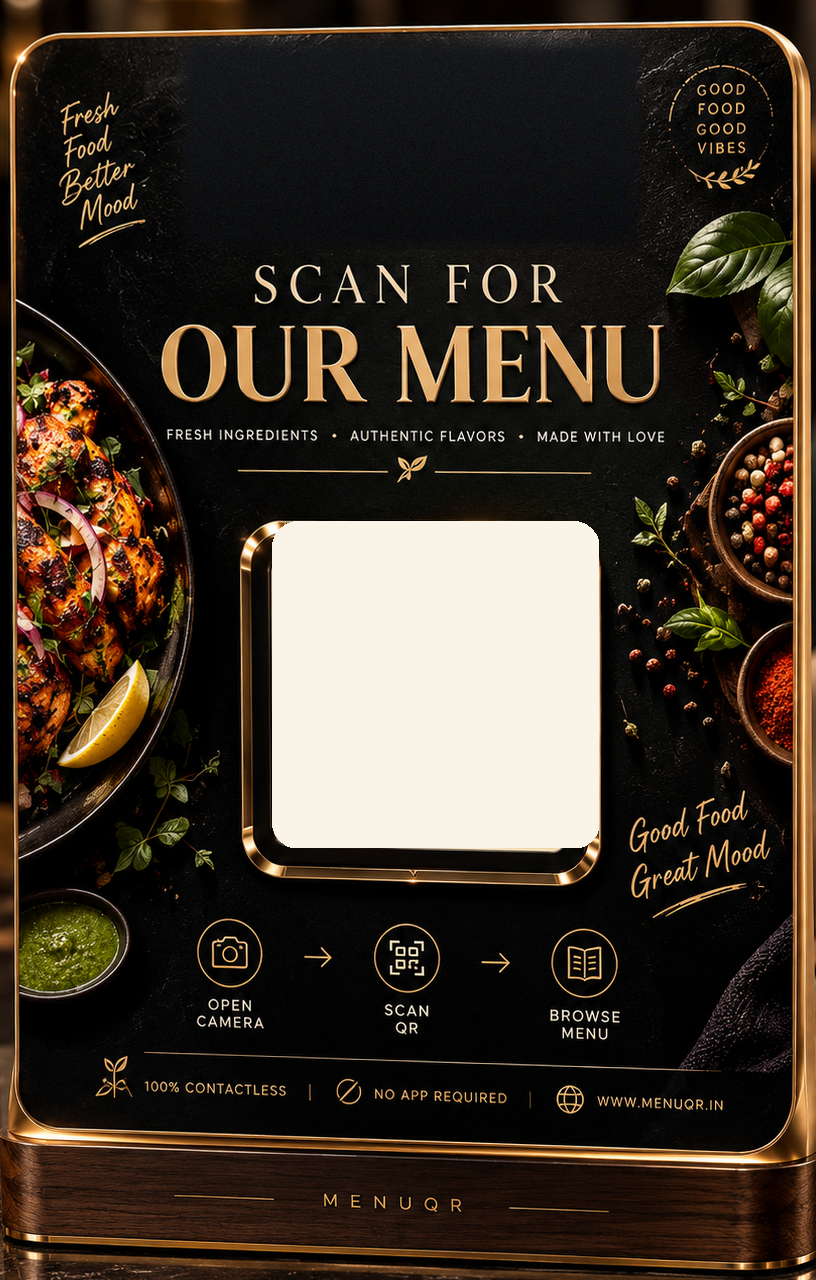
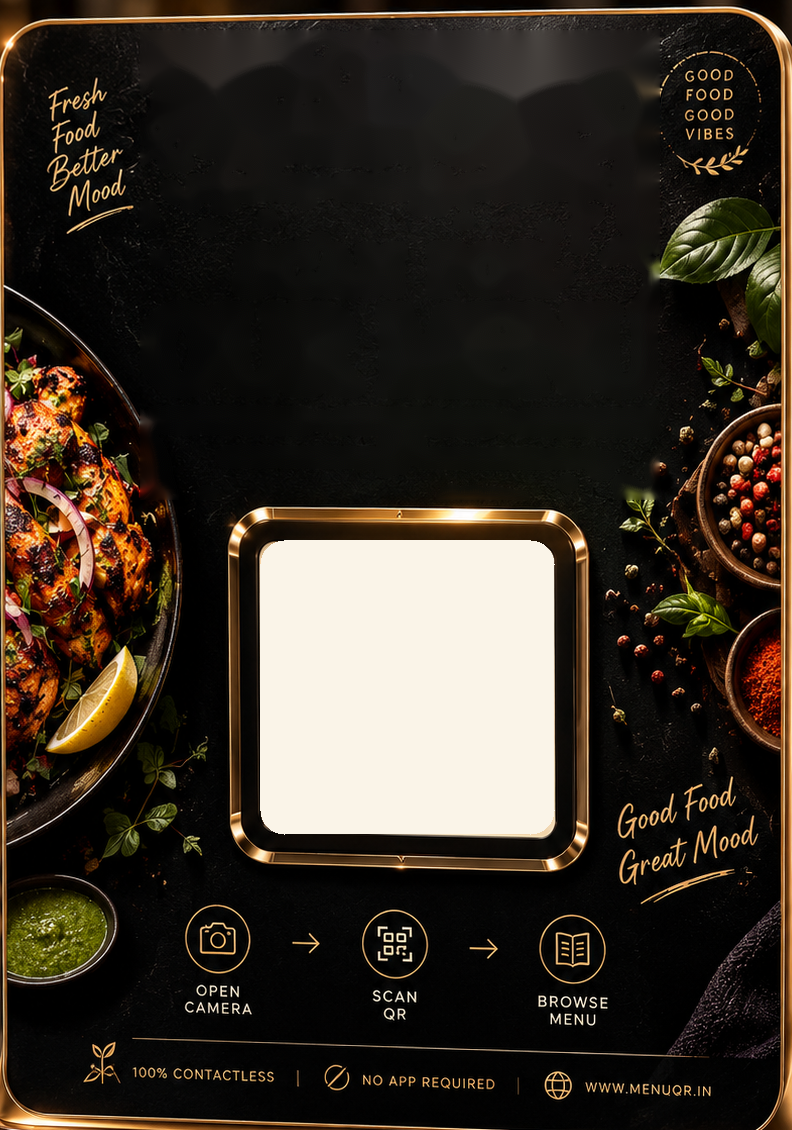
feat(sticker): optimize print-ready table sticker plaque and 3D gold rim alignment

diff --git a/frontend/src/components/sticker/RoyalWalnutStickerCard.tsx b/frontend/src/components/sticker/RoyalWalnutStickerCard.tsx
@@ -185,11 +185,11 @@ function FlagshipCulinaryStandeeCard({
   const [standeeImg, setStandeeImg] = React.useState('/assets/standee/flagship_culinary_standee_master.webp');
 
   return (
-    <div className="relative w-full aspect-[816/1280] overflow-hidden rounded-[2.2rem] select-none font-sans">
-      {/* Photorealistic 3D Table Standee Base Layer (100% Straight, De-skewed Orthographic) */}
+    <div className="relative w-full aspect-[792/1130] overflow-hidden rounded-[2rem] select-none font-sans">
+      {/* Photorealistic 3D Print-Ready Table Sticker Plate (100% Orthographic, 4-Sided 3D Gold Rim) */}
       <img
         src={standeeImg}
-        alt="MenusQR Physical Table Standee"
+        alt="MenusQR Print-Ready Table Sticker Plaque"
         onError={() => setStandeeImg('/assets/standee/flagship_culinary_standee_master.png')}
         className="absolute inset-0 w-full h-full object-cover pointer-events-none"
       />
@@ -198,13 +198,13 @@ function FlagshipCulinaryStandeeCard({
       <div
         className="absolute z-10 flex flex-col items-center text-center"
         style={{
-          top: '3.6%',
-          left: '16%',
-          right: '16%',
+          top: '4.2%',
+          left: '18%',
+          right: '18%',
         }}
       >
         {/* Official MenusQR Brand Badge */}
-        <div className="inline-flex items-center gap-1.5 px-3 py-0.5 rounded-full bg-black/75 backdrop-blur-md border border-[#D4AF37]/60 shadow-lg">
+        <div className="inline-flex items-center gap-1.5 px-3 py-0.5 rounded-full bg-black/80 backdrop-blur-md border border-[#D4AF37]/70 shadow-lg">
           <div className="w-3.5 h-3.5 flex items-center justify-center shrink-0">
             <MenusQRMark color="#FFFFFF" orange="#EA580C" />
           </div>
@@ -221,12 +221,12 @@ function FlagshipCulinaryStandeeCard({
         <h2
           className={`font-black tracking-tight leading-tight w-full px-1 text-center uppercase mt-1.5 ${
             restaurantName.length > 28
-              ? 'text-sm sm:text-base'
+              ? 'text-xs sm:text-sm'
               : restaurantName.length > 20
-              ? 'text-base sm:text-lg'
+              ? 'text-sm sm:text-base'
               : restaurantName.length > 12
-              ? 'text-lg sm:text-xl'
-              : 'text-xl sm:text-2xl'
+              ? 'text-base sm:text-lg'
+              : 'text-lg sm:text-xl'
           }`}
           style={{
             fontFamily: "'Playfair Display', 'Cinzel', Georgia, serif",
@@ -240,30 +240,39 @@ function FlagshipCulinaryStandeeCard({
         </h2>
 
         {/* Dynamic Cuisine Category with Gold Accents */}
-        <div className="flex items-center justify-center gap-1.5 mt-1 max-w-[310px]">
+        <div className="flex items-center justify-center gap-1.5 mt-1 max-w-[290px]">
           <span className="h-[1px] w-4 bg-gradient-to-r from-transparent to-[#D4AF37]" />
-          <p className="text-[8px] sm:text-[8.5px] font-extrabold uppercase tracking-[0.2em] text-[#E8C15A] text-center drop-shadow">
-            {category || 'AUTHENTIC FLAVORS • TABLE SERVICE'}
+          <p className="text-[7.5px] sm:text-[8px] font-extrabold uppercase tracking-[0.2em] text-[#E8C15A] text-center drop-shadow truncate">
+            {category || 'AUTHENTIC CHARCOAL & CLAY TANDOOR CRAFT'}
           </p>
           <span className="h-[1px] w-4 bg-gradient-to-l from-transparent to-[#D4AF37]" />
         </div>
 
         {/* Tagline */}
         {tagline && (
-          <p className="text-[7.5px] italic text-[#FEF3C7]/80 max-w-[280px] truncate mt-0.5 drop-shadow">
+          <p className="text-[7px] italic text-[#FEF3C7]/80 max-w-[260px] truncate mt-0.5 drop-shadow">
             "{tagline}"
           </p>
         )}
+
+        {/* Scan to Explore Menu Callout */}
+        <div className="flex items-center justify-center gap-2 mt-2">
+          <span className="h-[1px] w-5 bg-gradient-to-r from-transparent to-[#D4AF37]/70" />
+          <span className="text-[8.5px] sm:text-[9px] font-black uppercase tracking-[0.22em] text-[#FFF4D0] drop-shadow">
+            SCAN TO EXPLORE MENU
+          </span>
+          <span className="h-[1px] w-5 bg-gradient-to-l from-transparent to-[#D4AF37]/70" />
+        </div>
       </div>
 
-      {/* --- CENTER 3D GOLD QR CHAMBER (Exact 327x327 square dock) --- */}
+      {/* --- CENTER 3D GOLD QR CHAMBER (Exact 294x294 square dock on ivory bed) --- */}
       <div
-        className="absolute z-10 flex items-center justify-center rounded-[1.2rem] sm:rounded-[1.4rem] overflow-hidden p-2 sm:p-2.5"
+        className="absolute z-10 flex items-center justify-center rounded-[1.1rem] sm:rounded-[1.3rem] overflow-hidden p-1.5 sm:p-2"
         style={{
-          left: '33.33%',
-          top: '40.70%',
-          width: '40.07%',
-          height: '25.55%',
+          left: '32.83%',
+          top: '47.79%',
+          width: '37.12%',
+          height: '26.02%',
         }}
       >
         {qrImage ? (
@@ -276,7 +285,7 @@ function FlagshipCulinaryStandeeCard({
             />
             {/* Center MenusQR Seal */}
             <div className="absolute inset-0 flex items-center justify-center pointer-events-none">
-              <div className="w-7 h-7 sm:w-8 sm:h-8 rounded-xl bg-[#110D0B] border-2 border-[#D4AF37] p-1 flex items-center justify-center shadow-lg">
+              <div className="w-6 h-6 sm:w-7 sm:h-7 rounded-xl bg-[#110D0B] border-2 border-[#D4AF37] p-1 flex items-center justify-center shadow-lg">
                 <MenusQRMark color="#FFFFFF" orange="#EA580C" />
               </div>
             </div>
@@ -289,9 +298,9 @@ function FlagshipCulinaryStandeeCard({
       {/* Dynamic Table Number Plaque (if provided) */}
       {tableNumber && (
         <div
-          className="absolute z-20 px-3.5 py-0.5 rounded-full bg-gradient-to-r from-[#D4AF37] via-[#FFF1B0] to-[#D4AF37] text-[#1A120B] font-black text-[9px] sm:text-[10px] tracking-widest uppercase shadow-xl border border-black/30"
+          className="absolute z-20 px-3.5 py-0.5 rounded-full bg-gradient-to-r from-[#D4AF37] via-[#FFF1B0] to-[#D4AF37] text-[#1A120B] font-black text-[8.5px] sm:text-[9.5px] tracking-widest uppercase shadow-xl border border-black/30"
           style={{
-            top: '67.2%',
+            top: '75.2%',
             left: '50%',
             transform: 'translateX(-50%)',
           }}
@@ -891,7 +900,7 @@ export default function RoyalWalnutStickerCard({
         data-testid="menusqr-standee-card"
         className={`${isModal ? 'qr-print-sticker ' : ''}relative flex w-[380px] sm:w-[416px] flex-col items-center overflow-hidden ${
           activeTheme === 'flagship'
-            ? 'p-0 rounded-[2.2rem]'
+            ? 'p-0 rounded-[2rem]'
             : 'min-h-[640px] rounded-[2.6rem] p-3'
         } box-border transition-all`}
         style={{

diff --git a/frontend/src/components/sticker/StickerTemplates.ts b/frontend/src/components/sticker/StickerTemplates.ts
@@ -22,11 +22,11 @@ export interface StickerTemplate {
 export const STICKER_TEMPLATES: StickerTemplate[] = [
   {
     id: 'menusqr-flagship-standee',
-    name: 'Flagship Culinary Standee',
-    subtitle: 'Physical Walnut & Gold Standee, Sizzling Skillet & Spices',
+    name: 'Culinary Gold Table Sticker',
+    subtitle: 'Print-Ready 3D Gold Plaque Sticker • Sizzling Skillet & Spices',
     accentColor: '#D4AF37',
     previewBg: 'linear-gradient(135deg, #1C1209 0%, #D4AF37 50%, #825E12 100%)',
-    category: 'Flagship Table Standee',
+    category: 'Print-Ready Table Sticker',
   },
   {
     id: 'menusqr-tandoor-fire',
